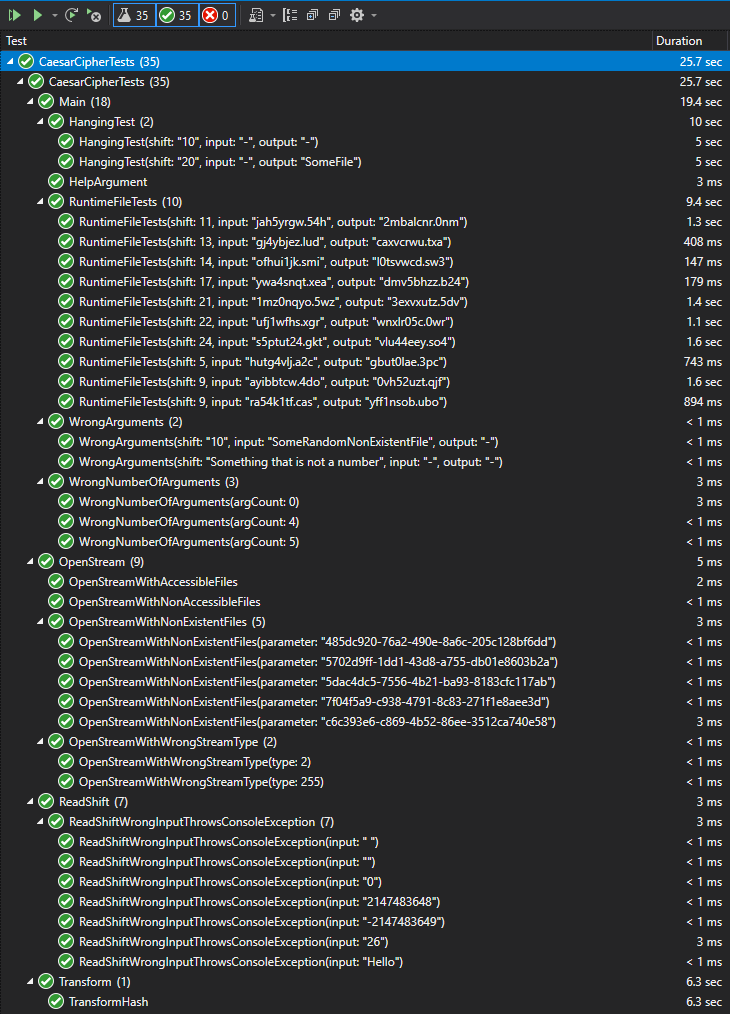
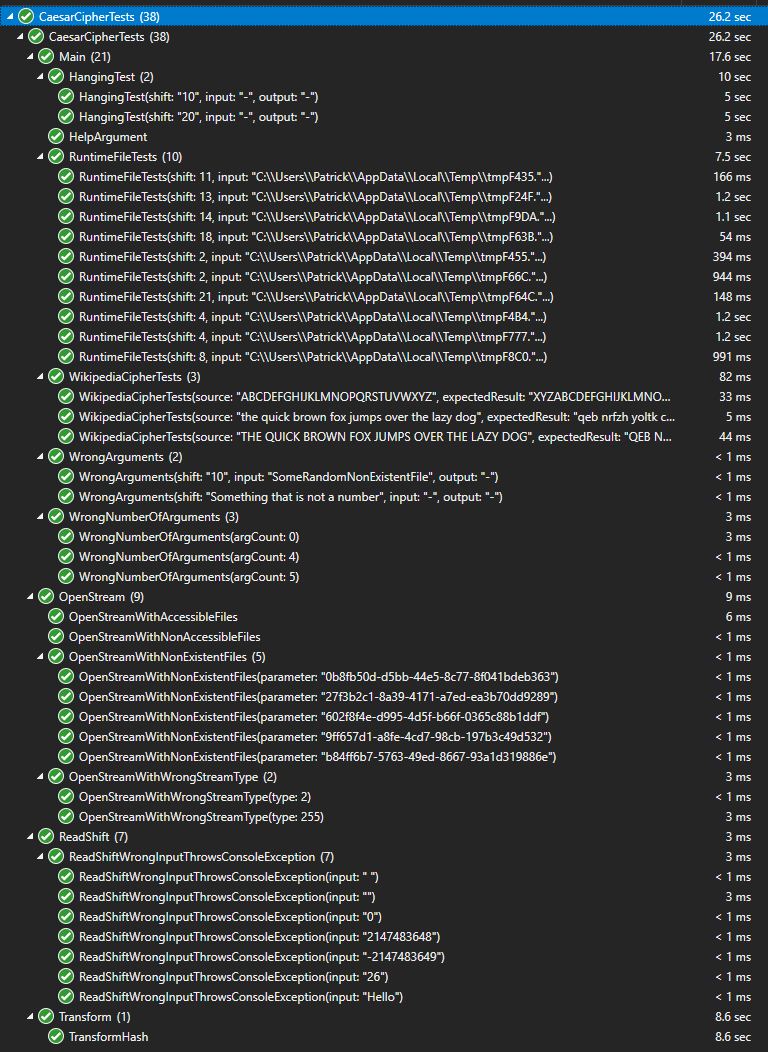
Added additional unit tests and comments, fixes to account for problematic visual studio test caching behavior, some clarifications in README.md

Changed region(s): [[0.0, 0.0, 1.0, 1.0]]

diff --git a/CaesarCipherTests/Main.cs b/CaesarCipherTests/Main.cs
@@ -13,7 +13,7 @@ namespace CaesarCipherTests
         [Fact]
         public void HelpArgument()
         {
-            Assert.Equal(0, Program.Main(new []{"help"}));
+            Assert.Equal(0, Program.Main(new[] { "help" }));
         }
         [Theory]
         [InlineData(0)]
@@ -25,15 +25,16 @@ namespace CaesarCipherTests
         }
         [Theory]
         [InlineData("10", "SomeRandomNonExistentFile", Program.StandardOutputIdentifier)]
-        [InlineData("Something that is not a number", Program.StandardInputIdentifier, Program.StandardOutputIdentifier)]
+        [InlineData("Something that is not a number", Program.StandardInputIdentifier,
+            Program.StandardOutputIdentifier)]
         public void WrongArguments(string shift, string input, string output)
         {
-            Assert.Throws<ConsoleException>(() => Program.Main(new [] {shift, input, output}));
+            Assert.Throws<ConsoleException>(() => Program.Main(new[] { shift, input, output }));
         }
         // Application hanging when it's expecting data from stdin and nothing being provided is expected behavior.
         [Theory]
         [InlineData("10", Program.StandardInputIdentifier, Program.StandardOutputIdentifier)]
-        [InlineData("20", Program.StandardInputIdentifier, "SomeFile")]
+        [InlineData("20", Program.StandardInputIdentifier, Program.StandardOutputIdentifier)]
         public async Task HangingTest(string shift, string input, string output)
         {
             var application = Task.Run(() => Program.Main(new[] { shift, input, output }));
@@ -45,40 +46,64 @@ namespace CaesarCipherTests
             var rng = new Random();
             for (var i = 0; i < 10; ++i)
             {
-                var file = Path.GetRandomFileName();
-                var stream = File.Create(file);
+                var file = Path.GetTempFileName();
+                var stream = File.Open(file, FileMode.Open);
                 var buffer = new byte[rng.Next(1024 * 1024, 50 * 1024 * 1024)];
                 rng.NextBytes(buffer);
                 stream.Write(buffer);
                 stream.Close();
-                yield return new object[] { rng.Next(1, 26), file, Path.GetRandomFileName() };
+                yield return new object[] { rng.Next(1, 26), file };
             }
         }
         /// <summary>
-        /// Practically the same test as in Transform.cs, this time with real files.
+        ///     Practically the same test as in Transform.cs, this time with real files.
         /// </summary>
         [Theory]
         [MemberData(nameof(GenerateData))]
-        public void RuntimeFileTests(string shift, string input, string output)
+        public void RuntimeFileTests(string shift, string input)
         {
             using var md5 = MD5.Create();
             var inputFile = File.Open(input, FileMode.Open, FileAccess.Read);
             var sourceHash = md5.ComputeHash(inputFile);
             inputFile.Close();
+            var output = Path.GetTempFileName();
             Program.Main(new[] { shift, input, output });
             var outputFile = File.Open(output, FileMode.Open, FileAccess.Read);
             var resultHash = md5.ComputeHash(outputFile);
             outputFile.Close();
             Assert.NotEqual(sourceHash, resultHash);
 
-            
+
             Program.Main(new[] { (26 - int.Parse(shift)).ToString(), output, input });
             inputFile = File.Open(input, FileMode.Open, FileAccess.Read);
             var decryptedFileHash = md5.ComputeHash(inputFile);
             inputFile.Close();
             Assert.Equal(sourceHash, decryptedFileHash);
+            //Deleting them is a bad idea, because apparently, visual studio caches them between repeated test attempts, which is at best - extremelly naive.
+            /*
             File.Delete(input);
+            */
             File.Delete(output);
+        }
+        /// <summary>
+        /// Tries to replicate results shown in https://en.wikipedia.org/wiki/Caesar_cipher
+        /// </summary>
+        /// <param name="source">The input string.</param>
+        /// <param name="expectedResult">The expected output string</param>
+        /// <param name="shift"></param>
+        [Theory]
+        [InlineData("ABCDEFGHIJKLMNOPQRSTUVWXYZ", "XYZABCDEFGHIJKLMNOPQRSTUVW", 23)]
+        [InlineData("THE QUICK BROWN FOX JUMPS OVER THE LAZY DOG", "QEB NRFZH YOLTK CLU GRJMP LSBO QEB IXWV ALD", 23)]
+        [InlineData("the quick brown fox jumps over the lazy dog", "qeb nrfzh yoltk clu grjmp lsbo qeb ixwv ald", 23)]
+        public void WikipediaCipherTests(string source, string expectedResult, byte shift)
+        {
+            var inputFile = Path.GetTempFileName();
+            var outputFile = Path.GetTempFileName();
+            File.WriteAllText(inputFile, source);
+            Program.Main(new[] { shift.ToString(), inputFile, outputFile });
+            Assert.Equal(expectedResult, File.ReadAllText(outputFile));
+            File.Delete(inputFile);
+            File.Delete(outputFile);
         }
     }
 }

diff --git a/CaesarCipher/Program.cs b/CaesarCipher/Program.cs
@@ -17,6 +17,11 @@ namespace CaesarCipher
     }
     public static class Program
     {
+        public enum StreamType : byte
+        {
+            Input = 0,
+            Output = 1
+        }
         public const string StandardInputIdentifier = "-";
         public const string StandardOutputIdentifier = "-";
         static readonly string Help = "{shift} {input} {output} {mode}\n" +
@@ -38,6 +43,7 @@ namespace CaesarCipher
                 Console.WriteLine(Help);
                 return 0;
             }
+
             if (args.Length != 3)
                 throw new ConsoleException($"Usage instructions:\n{Help}\n" +
                                            $"Got \"{string.Join(' ', args)}\" of length {args.Length} instead.",
@@ -53,13 +59,8 @@ namespace CaesarCipher
                                     $" by {args[0]} and wrote the result to {(args[2] == StandardOutputIdentifier ? "stdout" : args[2])}.");*/
             return 0;
         }
-        public enum StreamType : byte
-        {
-            Input = 0,
-            Output = 1
-        }
         /// <summary>
-        /// Attempts to open user provided argument as either file or stream.
+        ///     Attempts to open user provided argument as either file or stream.
         /// </summary>
         /// <param name="parameter">User input.</param>
         /// <param name="type">Internally provided type.</param>
@@ -88,7 +89,7 @@ namespace CaesarCipher
                 throw;
             }
             //Way too many different types of exceptions could be thrown in this context leading to unfortunate necessity to generalize.
-            catch(Exception exception)
+            catch (Exception exception)
             {
                 throw new ConsoleException("Problems opening provided " +
                                            $"{type switch { StreamType.Input => "input", StreamType.Output => "output", _ => "" }} " +
@@ -96,8 +97,8 @@ namespace CaesarCipher
             }
         }
         /// <summary>
-        /// Shifts all bytes of input by shift and writes them to output.
-        /// If any of the streams fail while being used - catastrophic failure is expected.
+        ///     Shifts all bytes of input by shift and writes them to output.
+        ///     If any of the streams fail while being used - catastrophic failure is expected.
         /// </summary>
         /// <param name="input">Input stream.</param>
         /// <param name="output">Output stream.</param>
@@ -112,8 +113,16 @@ namespace CaesarCipher
                     buffer[i] = buffer[i] switch
                     {
                         //Unchecked context allows overflows and underflows to not throw exceptions.
-                        //Also boosts performance for larger files.
+                        //In this case neither overflow nor underflow are mathematically possible assuming shift lies in [1, 25] range.
+                        //1. If said byte is in specified range - apply shift.
+                        //   In a lot of cases result is outside uppercase or lowercase letter ranges.
+                        //3. Unfortunately there is no single operation that can return modulus of x in [y, z] range.
+                        //   So downshifting entire range to 0 based range by subtracting 65 or 97 is necessary.
+                        //5. Applying modulus operation of 26 results in [0, 25] range, which is not expected output.
+                        //6. Meaning that the downshift in step 3 has to be reversed.
+                        //[65, 90] - Uppercase letters.
                         > 64 and < 91 => unchecked((byte)((buffer[i] + shift - 65) % 26 + 65)),
+                        //[97, 122] - Lowercase letters.
                         > 96 and < 123 => unchecked((byte)((buffer[i] + shift - 97) % 26 + 97)),
                         _ => buffer[i]
                     };
@@ -121,7 +130,7 @@ namespace CaesarCipher
             }
         }
         /// <summary>
-        /// Reads user provided shift and attempts to parse it.
+        ///     Reads user provided shift and attempts to parse it.
         /// </summary>
         /// <param name="parameter">User input</param>
         /// <returns>Parsed integer</returns>
@@ -132,7 +141,7 @@ namespace CaesarCipher
             if (!success)
                 throw new ConsoleException($"Failed to parse \"{parameter}\" as a byte.", FailureType.FailedToParse);
             if (shift is < 1 or > 25)
-                throw new ConsoleException($"Shift must be in [1, 25] range!", FailureType.ShiftNotWithinRange);
+                throw new ConsoleException("Shift must be in [1, 25] range!", FailureType.ShiftNotWithinRange);
             return shift;
         }
     }

diff --git a/CaesarCipherTests/OpenStream.cs b/CaesarCipherTests/OpenStream.cs
@@ -9,7 +9,7 @@ namespace CaesarCipherTests
     public class OpenStream
     {
         /// <summary>
-        /// Tests if correct type of exception is thrown from wrong internal argument.
+        ///     Tests if correct type of exception is thrown from wrong internal argument.
         /// </summary>
         /// <param name="type"></param>
         [Theory]
@@ -22,10 +22,10 @@ namespace CaesarCipherTests
         public static IEnumerable<object[]> RandomNonExistentFiles()
         {
             for (var i = 0; i < 5; ++i)
-                yield return new object[]{Guid.NewGuid().ToString()};
+                yield return new object[] { Guid.NewGuid().ToString() };
         }
         /// <summary>
-        /// Checks if non existent source file throws the expected ConsoleException exception type.
+        ///     Checks if non existent source file throws the expected ConsoleException exception type.
         /// </summary>
         /// <param name="parameter">Source file path</param>
         [Theory]
@@ -48,16 +48,15 @@ namespace CaesarCipherTests
                 stream.Close();
                 yield return new object[]
                 {
-                    new FileStream(stream.Name, FileMode.Open, FileAccess.Read, 
-                        type is Program.StreamType.Input ? 
-                            accessible ? FileShare.Read : FileShare.Write : 
-                            accessible ? FileShare.Write : FileShare.Read), 
+                    new FileStream(stream.Name, FileMode.Open, FileAccess.Read,
+                        type is Program.StreamType.Input ? accessible ? FileShare.Read : FileShare.Write :
+                        accessible ? FileShare.Write : FileShare.Read),
                     type
                 };
             }
         }
         /// <summary>
-        /// Checks if non-accessible files cause the expected ConsoleException type to be thrown.
+        ///     Checks if non-accessible files cause the expected ConsoleException type to be thrown.
         /// </summary>
         /// <param name="stream">Generated file stream.</param>
         /// <param name="type">Type of stream.</param>

diff --git a/CaesarCipherTests/Transform.cs b/CaesarCipherTests/Transform.cs
@@ -3,6 +3,7 @@ using System.Collections.Generic;
 using System.IO;
 using System.Security.Cryptography;
 using System.Threading.Tasks;
+using System.Text;
 using CaesarCipher;
 using Xunit;
 
@@ -24,9 +25,9 @@ namespace CaesarCipherTests
             }
         }
         /// <summary>
-        /// Compares hashes of encrypted and source data.
-        /// <para>1.Encrypts data and compares hashes of encrypted data and source data - they should NOT be equal.</para>
-        /// <para>2.Decrypts encrypted data and compares hashes of decrypted data and source data - they should be equal.</para>
+        ///     Compares hashes of encrypted and source data.
+        ///     <para>1.Encrypts data and compares hashes of encrypted data and source data - they should NOT be equal.</para>
+        ///     <para>2.Decrypts encrypted data and compares hashes of decrypted data and source data - they should be equal.</para>
         /// </summary>
         /// <param name="input">Data input stream</param>
         /// <param name="shift"></param>
@@ -42,7 +43,7 @@ namespace CaesarCipherTests
             task.Wait();
             //Encrypted data should not have the same hash as source data.
             Assert.NotEqual(sourceHash, encryptedDataHash);
-            
+
             output.Seek(0, SeekOrigin.Begin);
             input.Seek(0, SeekOrigin.Begin);
             task = Task.Run(() => Program.Transform(output, input, 26 - shift));

diff --git a/CaesarCipherTests/ReadShift.cs b/CaesarCipherTests/ReadShift.cs
@@ -6,7 +6,7 @@ namespace CaesarCipherTests
     public class ReadShift
     {
         /// <summary>
-        /// Checks if specifically ConsoleException and not some other type of exception is thrown.
+        ///     Checks if specifically ConsoleException and not some other type of exception is thrown.
         /// </summary>
         /// <param name="input">Simulated user input specifying shift amount.</param>
         [Theory]
@@ -15,8 +15,8 @@ namespace CaesarCipherTests
         [InlineData("Hello")]
         [InlineData("2147483648")] // int.MaxValue + 1
         [InlineData("-2147483649")] // int.MinValue - 1
-        [InlineData("0")]
-        [InlineData("26")]
+        [InlineData("0")] // outside [1, 25] range
+        [InlineData("26")] // outside [1, 25] range
         public void ReadShiftWrongInputThrowsConsoleException(string input)
         {
             Assert.Throws<ConsoleException>(() => Program.ReadShift(input));

diff --git a/README.md b/README.md
@@ -29,19 +29,19 @@ Command line interface only accepts either 1 or 3 commands - `help` or `{shift} 
 
 To decrypt previously encrypted data - calculate `26 - {shift}` and use value in place of `{shift}`. 
 
-For example if data was encrypted with `{shift}` of `5` - it can be decrypted with `{21}` as 26 - 5 = 21.
+For example if data was encrypted with `{shift}` of `5` - it can be decrypted with `21` as 26 - 5 = 21.
 
 ## Usage examples
-- #### Using no files and `{shift}` of "5":
+- #### Using no files and `{shift}` of "5" with decryption shift being "21":
   ```echo Hello World! | CaesarCipher 5 - -``` which results in `Mjqqt Btwqi!`.
   
-  Passing said output into the tool again with inverted `{shift}` like so:
+  Passing said output into the tool again with decryption `{shift}` like so:
 
   ```echo Hello World! | CaesarCipher 5 - - | CaesarCipher 21 - -```
 
   Results in `Hello World!`.
 
-- #### Using files and `{shift}` of "7":
+- #### Using files and `{shift}` of "7" with decryption shift being "19":
 
   For example file `data.txt` in the same directory as the executable contains:
 
@@ -53,7 +53,7 @@ For example if data was encrypted with `{shift}` of `5` - it can be decrypted wi
 
   ```Aol xbpjr iyvdu mve qbtwz vcly aol shgf kvn.```
 
-  Running encrypted file through the tool with inverted `{shift}` like so: 
+  Running encrypted file through the tool with decryption `{shift}` like so: 
   
   ```CaesarCipher 19 encrypted.txt decrypted.txt```
 

diff --git a/CaesarCipherTests/README.md b/CaesarCipherTests/README.md
@@ -1,8 +1,14 @@
 # Unit testing results
+
+Unit tests have been written using XUnit 2.4.1 version.
+Note: RuntimeFileTests may fail in cases visual studio naively cached the generated temporary files. In that case just rebuild the unit test project.
+
 <img src="https://raw.githubusercontent.com/patrikas-sestokas/CaesarCipher/main/TestSnippets/testresult.png">
 
 ## Unit testing coverage
+
 <img src="https://raw.githubusercontent.com/patrikas-sestokas/CaesarCipher/main/TestSnippets/coverage.png">
 
 ## Uncovered lines in Program.cs
+
 <img src="https://raw.githubusercontent.com/patrikas-sestokas/CaesarCipher/main/TestSnippets/uncoveredlines.png">
